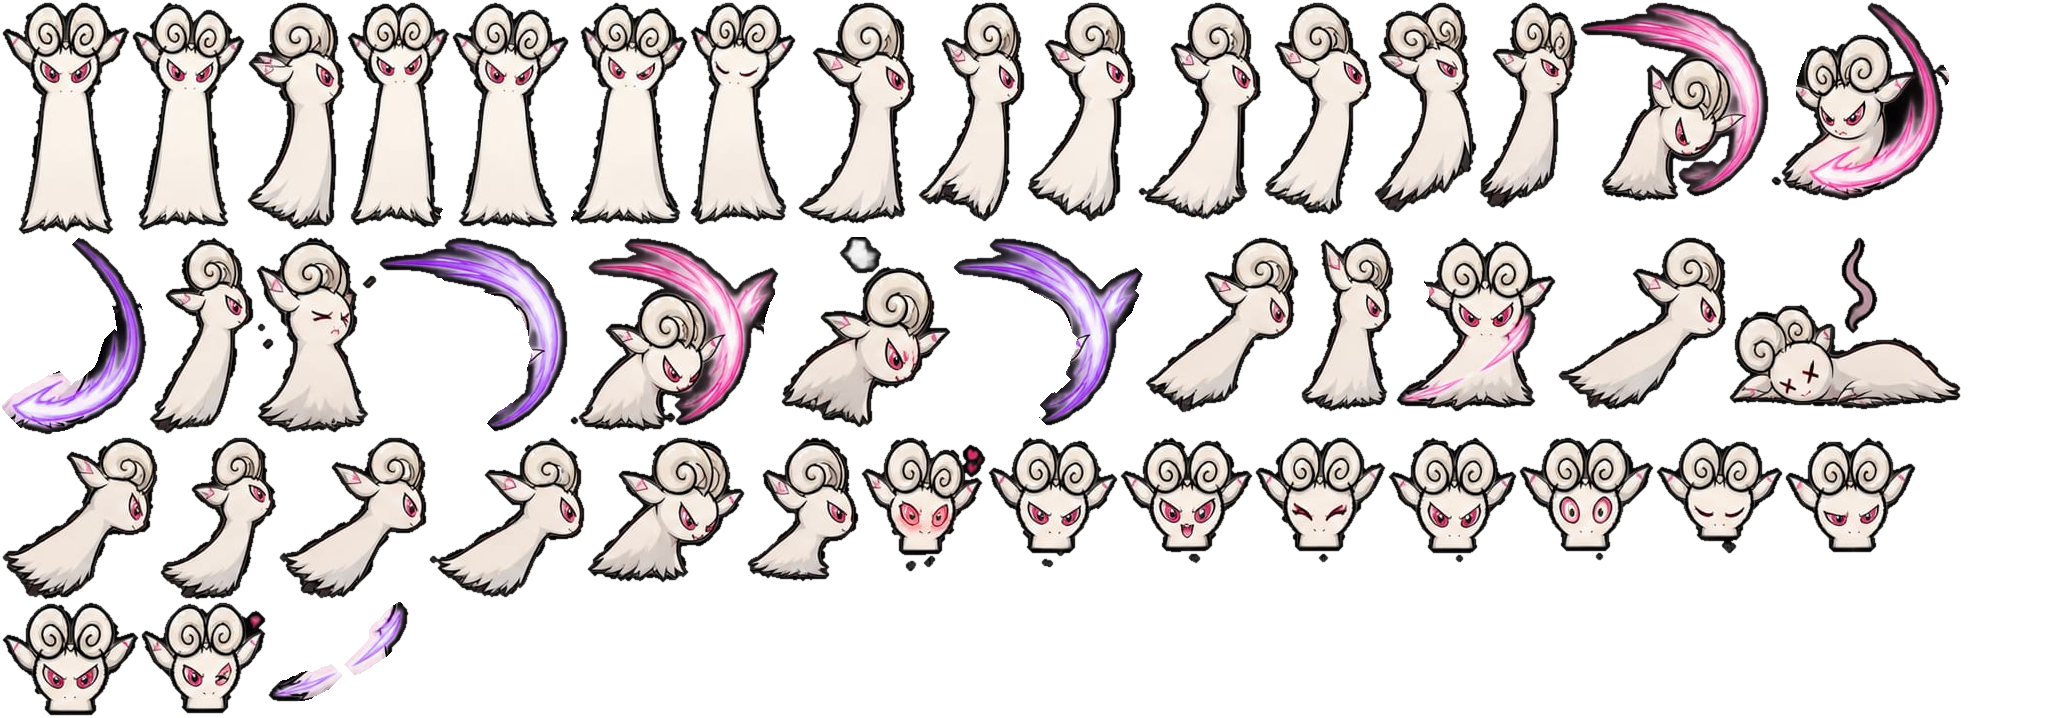
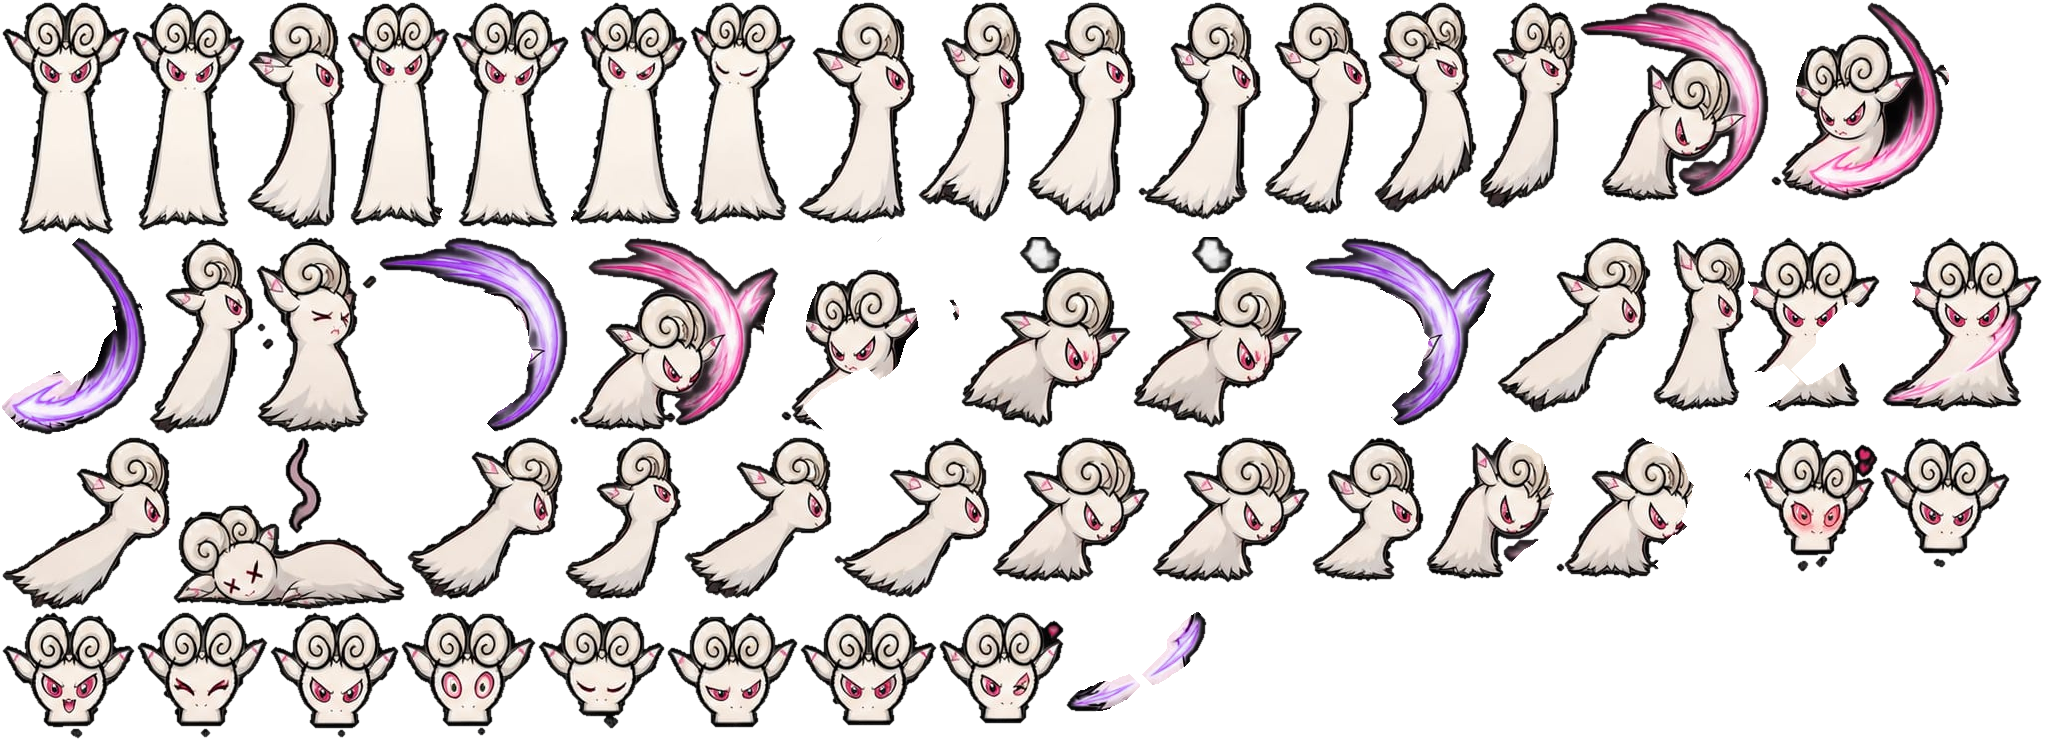
Stop the goat throwing its bare-handed swirl while armed
The attack row bakes the goat's pink swirl into the poses themselves, so
swinging a sword played the sword's trail and the goat's own effect at once.

The pipeline already lifts that swirl out for the companion to borrow. This
takes the same split from the other side: `clean_alias` emits the band again
with the effect removed, giving a `strike` clip that is the attack poses minus
the swirl. The goat plays it whenever something is equipped.

The effect is grown before subtracting. Its soft edge falls below the blob
threshold that isolates it, and with the swirl around them gone those crumbs
are plainly visible as specks floating beside the goat.

Adding the clip surfaced as a type error in the debug dock's label table rather
than as a blank button, which is the generated frame manifest doing its job.

diff --git a/src/web/src/game/animation/goatClips.ts b/src/web/src/game/animation/goatClips.ts
@@ -13,7 +13,7 @@ export { GOAT_TEXTURE_KEY as GOAT_TEXTURE } from './goatAtlas.generated';
  * jump row is one drawn arc -- crouch, launch, apex, descend, descend, land --
  * so it is split into the three clips the state machine actually needs.
  */
-const { idle, walk, run, jump, attack, hurt, die } = GOAT_FRAMES;
+const { idle, walk, run, jump, attack, strike, hurt, die } = GOAT_FRAMES;
 
 export const CLIPS = {
   idle: { frames: idle, frameRate: 7, repeat: -1 },
@@ -23,6 +23,10 @@ export const CLIPS = {
   fall: { frames: jump.slice(3, 5), frameRate: 9, repeat: 0, hold: true },
   land: { frames: jump.slice(5), frameRate: 12, repeat: 0, hold: true },
   attack: { frames: attack, frameRate: 16, repeat: 0, hold: true },
+  // The same poses with the goat's own swirl removed, for when it is
+  // holding something. Otherwise it throws a bare-handed effect while
+  // swinging a sword, because the sheet bakes the effect into the pose.
+  strike: { frames: strike, frameRate: 16, repeat: 0, hold: true },
   hurt: { frames: hurt, frameRate: 1, repeat: 0, hold: true },
   die: { frames: die, frameRate: 1, repeat: 0, hold: true },
 } as const satisfies Record<string, ClipDef>;
@@ -31,7 +35,7 @@ export type ClipName = keyof typeof CLIPS;
 
 /** Clips the debug dock offers, in the order they appear on the sheet. */
 export const CLIP_ORDER: readonly ClipName[] = [
-  'idle', 'walk', 'run', 'rise', 'fall', 'land', 'attack', 'hurt', 'die',
+  'idle', 'walk', 'run', 'rise', 'fall', 'land', 'attack', 'strike', 'hurt', 'die',
 ];
 
 /** Expression portraits. Not animations -- single frames shown in the UI. */

diff --git a/src/web/src/game/entities/Goat.ts b/src/web/src/game/entities/Goat.ts
@@ -40,6 +40,8 @@ export class Goat extends Phaser.Physics.Arcade.Sprite {
   #pendingKnockback: Facing = 1;
   /** Set while the debug dock is previewing a clip, which suspends the machine. */
   #previewing: ClipName | null = null;
+  /** Holding a weapon, so its attack must not throw its own effect. */
+  #armed = false;
 
   constructor(scene: Phaser.Scene, x: number, y: number) {
     super(scene, x, y, GOAT_TEXTURE_KEY, CLIPS.idle.frames[0]);
@@ -73,6 +75,11 @@ export class Goat extends Phaser.Physics.Arcade.Sprite {
 
     this.body.setSize(width, height, false);
     this.body.setOffset(originX - width / 2, originY - height);
+  }
+
+  /** Told by the scene when a weapon is equipped or put away. */
+  setArmed(armed: boolean): void {
+    this.#armed = armed;
   }
 
   get facing(): Facing {
@@ -217,12 +224,17 @@ export class Goat extends Phaser.Physics.Arcade.Sprite {
   #clearPreview(): void {
     if (!this.#previewing) return;
     this.#previewing = null;
-    this.anims.play(goatAnimationKey(CLIP_FOR_STATE[this.#machine.current]), true);
+    this.anims.play(goatAnimationKey(this.#resolve(CLIP_FOR_STATE[this.#machine.current])), true);
   }
 
   #playClip(clip: ClipName): void {
     if (this.#previewing) return;
-    this.anims.play(goatAnimationKey(clip), true);
+    this.anims.play(goatAnimationKey(this.#resolve(clip)), true);
+  }
+
+  /** Swap in the swirl-free attack while armed. */
+  #resolve(clip: ClipName): ClipName {
+    return clip === 'attack' && this.#armed ? 'strike' : clip;
   }
 
 

diff --git a/src/web/src/game/animation/goatAtlas.generated.ts b/src/web/src/game/animation/goatAtlas.generated.ts
@@ -20,6 +20,7 @@ export const GOAT_FRAMES = {
   walk: ["walk-00", "walk-01", "walk-02", "walk-03", "walk-04", "walk-05"],
   run: ["run-00", "run-01", "run-02", "run-03", "run-04"],
   jump: ["jump-00", "jump-01", "jump-02", "jump-03", "jump-04", "jump-05"],
+  strike: ["strike-00", "strike-01", "strike-02", "strike-03", "strike-04", "strike-05"],
   attack: ["attack-00", "attack-01", "attack-02", "attack-03", "attack-04", "attack-05"],
   swirl: ["swirl-02", "swirl-03", "swirl-04", "swirl-05"],
   hurt: ["hurt-00"],

diff --git a/src/web/src/ui/DevTools.tsx b/src/web/src/ui/DevTools.tsx
@@ -7,7 +7,7 @@ import type { PlayerSnapshot } from '@/game/types';
 const LABELS: Record<ClipName, string> = {
   idle: 'Idle', walk: 'Walk', run: 'Run',
   rise: 'Rise', fall: 'Fall', land: 'Land',
-  attack: 'Attack', hurt: 'Hurt', die: 'Die',
+  attack: 'Attack', strike: 'Strike (armed)', hurt: 'Hurt', die: 'Die',
 };
 
 /**

diff --git a/src/web/src/game/scenes/PlayScene.ts b/src/web/src/game/scenes/PlayScene.ts
@@ -167,6 +167,7 @@ export class PlayScene extends Phaser.Scene {
 
       eventBus.on('weapon:equip', ({ id }) => {
         this.#weapon.equip(id);
+        this.#goat.setArmed(id !== null);
         this.#emitWeapon();
       }),
 

diff --git a/src/web/scripts/atlaslib.py b/src/web/scripts/atlaslib.py
@@ -60,6 +60,11 @@ class Band:
     #: Lets one character's effect be drawn over another without dragging the
     #: original body along with it.
     fx_alias: str | None = None
+    #: Also emit this band a second time with its effects *removed*, under this
+    #: anim name -- the same split as `fx_alias`, taken from the other side. A
+    #: character holding a weapon should not also be throwing its own bare
+    #: handed effect, and these sheets bake the effect into the pose.
+    clean_alias: str | None = None
     #: Hue rotation applied to those isolated frames, in degrees. Recolouring
     #: here rather than tinting at runtime matters because Phaser's tint is a
     #: multiply: it can only ever darken a channel, so it cannot turn a pink
@@ -440,6 +445,9 @@ def band_scales(body: np.ndarray, spec: SheetSpec) -> dict[str, float]:
 #: How far an effect's glow reaches past its bright core, in px.
 FX_GLOW_REACH = 10
 
+#: Extra growth when subtracting an effect, to take its soft fringe with it.
+CLEAN_MARGIN = 5
+
 
 def rotate_hue(rgb: np.ndarray, degrees: float) -> np.ndarray:
     """Rotate hue, leaving saturation and value alone."""
@@ -590,17 +598,30 @@ def collect_frames(rgb: np.ndarray, alpha: np.ndarray, spec: SheetSpec) -> list[
                 anchor_x = (lo + hi) // 2
             name = band.names[i] if band.names else f"{band.key}-{i:02d}"
 
-            if band.fx_alias and isolate is not None:
+            if (band.fx_alias or band.clean_alias) and isolate is not None:
                 effect = self_effect(
                     owned, isolate[band.y0:band.y1, band.x0:band.x1],
                     spec.fx_isolate_min_area,
                 )
-                if effect.any():
+                if band.fx_alias and effect.any():
                     frames.append(_cut(
                         f"{band.fx_alias}-{i:02d}", band.fx_alias, i, effect,
                         rotate_hue(band_rgb, band.fx_hue_shift),
                         band_alpha, band, anchor_x, anchor_y, scale,
                     ))
+                if band.clean_alias:
+                    # Emitted for every frame, effect or not, so the clean clip
+                    # keeps the same length and timing as the original. The
+                    # effect is grown before subtracting: its soft edge falls
+                    # below the blob threshold that isolates it, and those
+                    # crumbs are plainly visible once the swirl around them is
+                    # gone.
+                    clean = owned & ~dilate(effect, CLEAN_MARGIN)
+                    if clean.any():
+                        frames.append(_cut(
+                            f"{band.clean_alias}-{i:02d}", band.clean_alias, i, clean,
+                            band_rgb, band_alpha, band, anchor_x, anchor_y, scale,
+                        ))
 
             frames.append(Frame(
                 name=name,

diff --git a/src/web/scripts/sheets.py b/src/web/scripts/sheets.py
@@ -57,7 +57,7 @@ GOAT = SheetSpec(
         Band("walk",    50,  325,  720, 1448,  6),
         Band("run",    350,  632,    0,  745,  5),
         Band("jump",   350,  632,  745, 1448,  6),
-        Band("attack", 660,  880,    0,  960,  6, fx_alias="swirl",
+        Band("attack", 660,  880,    0,  960,  6, fx_alias="swirl", clean_alias="strike",
      #: Pink -> violet, matching the companion's own palette; it is the
      #: companion that uses this effect, not the goat.
      fx_hue_shift=-55),
